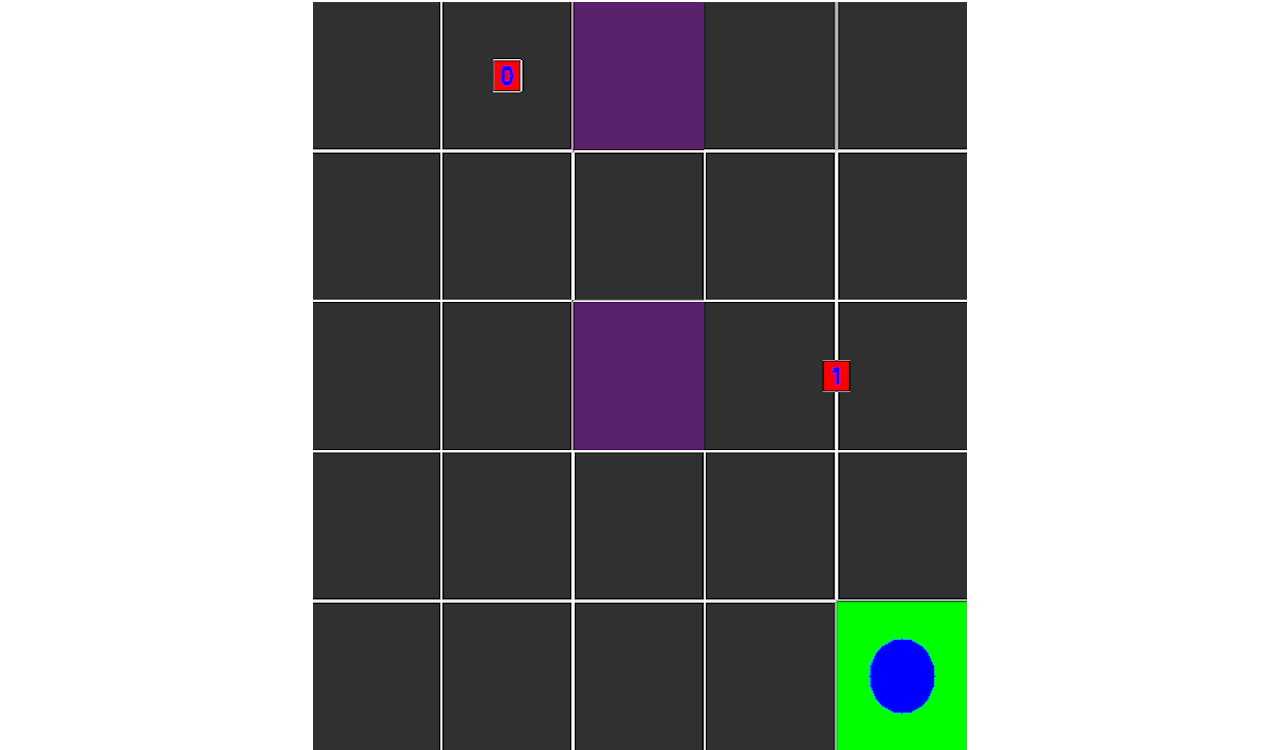
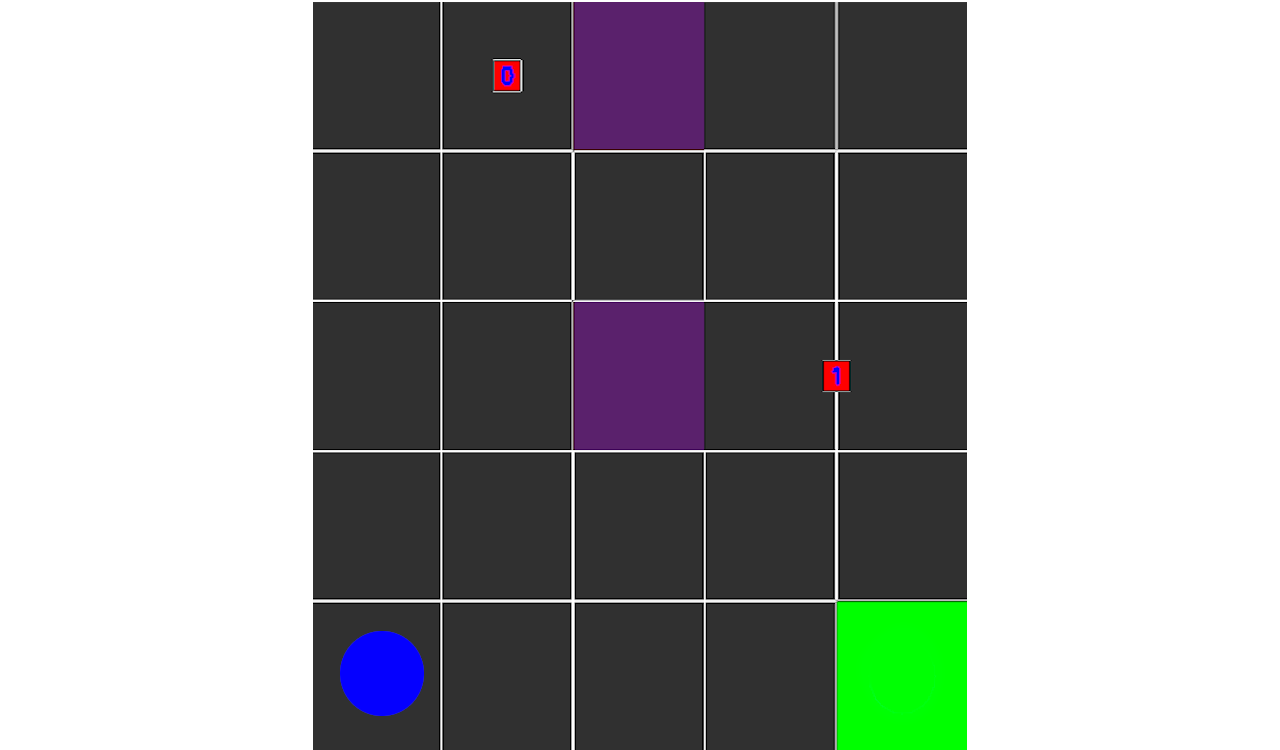
Adds third image to motion planning

Changed region(s): [[0.25, 0.828, 0.3438, 0.9507], [0.6562, 0.828, 0.75, 0.9507]]

diff --git a/_posts/research/2017-04-01-planning-and-control.md b/_posts/research/2017-04-01-planning-and-control.md
@@ -42,8 +42,8 @@ A warehouse layout for the featured image would be given as the following:
 .0#..
 .....
 ..#1.
-....@
-....A
+.....
+A...@
 </pre>
 </p>
 
@@ -63,5 +63,8 @@ discretization of the provided warehouse layout file and precise calculation of 
 </p>
 
 <p>
-A video showing the completion of a more complex warehouse layout is featured.
+A brief overview for picking up and deliver one of two packages for a simple warehouse is shown in the first two
+featured images.
+
+A video showing the completion of a more complex warehouse layout is also shown.
 </p>
